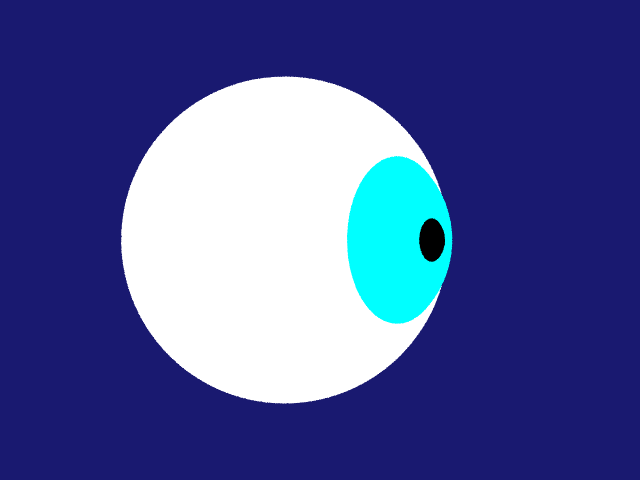
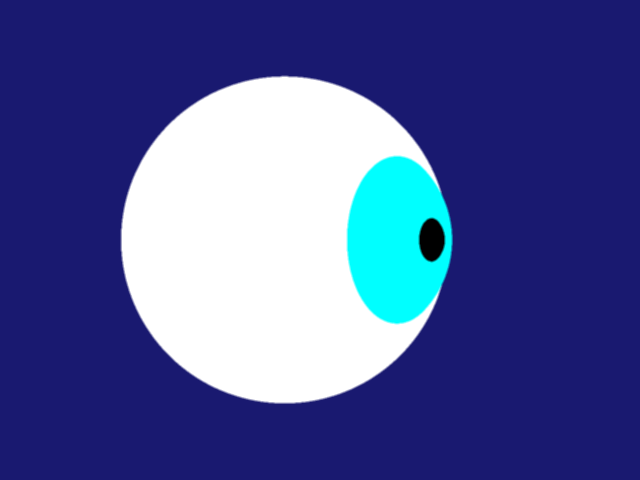
finished antialiasing

diff --git a/src/build.py b/src/build.py
@@ -3,7 +3,7 @@ from math import hypot, inf, sqrt
 from modules.ray import Ray
 from modules.image import Image
 import random
-from time import sleep
+from time import sleep 
 
 class Build:
     def __init__(self, scene_dict: dict) -> None:
@@ -42,20 +42,24 @@ class Build:
         # calculating Q[0][0] = C + (1/2 * s(n-1) * v) - (1/2 * s(m-1) * u)
         pixel_center_00 = screen_center + self.PIXEL_SIZE * (((self.HEIGHT / 2) * v) - ((self.WIDTH / 2) * u))
         
-        num_samples = 64    
+        num_samples = 25    
         n = int(sqrt(num_samples))
-        # computing the rays direction
+        px = self.PIXEL_SIZE / num_samples * 2
 
+        # computing the rays direction
         for i in range(self.HEIGHT):
             for j in range(self.WIDTH):
                 sum_color = np.array([0.0,0.0,0.0])
+                random_point = np.array([0.0,0.0,0.0])
+                current_position = pixel_center_00 + self.PIXEL_SIZE * (j * u - i * v)
                 
+                # Antialiasing
                 for c in range(n):
                     for r in range(n):
-                        current_position = pixel_center_00 + self.PIXEL_SIZE * (((r + random.random()) * u) - ((c + random.random()) * v))
-                        ray_direction = current_position - cam_eye  # alter
+                        sub_pixel = current_position + self.PIXEL_SIZE/2 * (1 - 1 / n) * (v - u)
+                        current_sub_pixel =  sub_pixel + self.PIXEL_SIZE / 2 * ((r + self.rand_float(px)) * u - (c + self.rand_float(px)) * v)
+                        ray_direction = current_sub_pixel - cam_eye  # alter
                         ray_direction = normalize(ray_direction, norm(*ray_direction))
-                        
                         ray = Ray(ray_direction, cam_eye)
                         
                         # setting the pixel color in the screen
